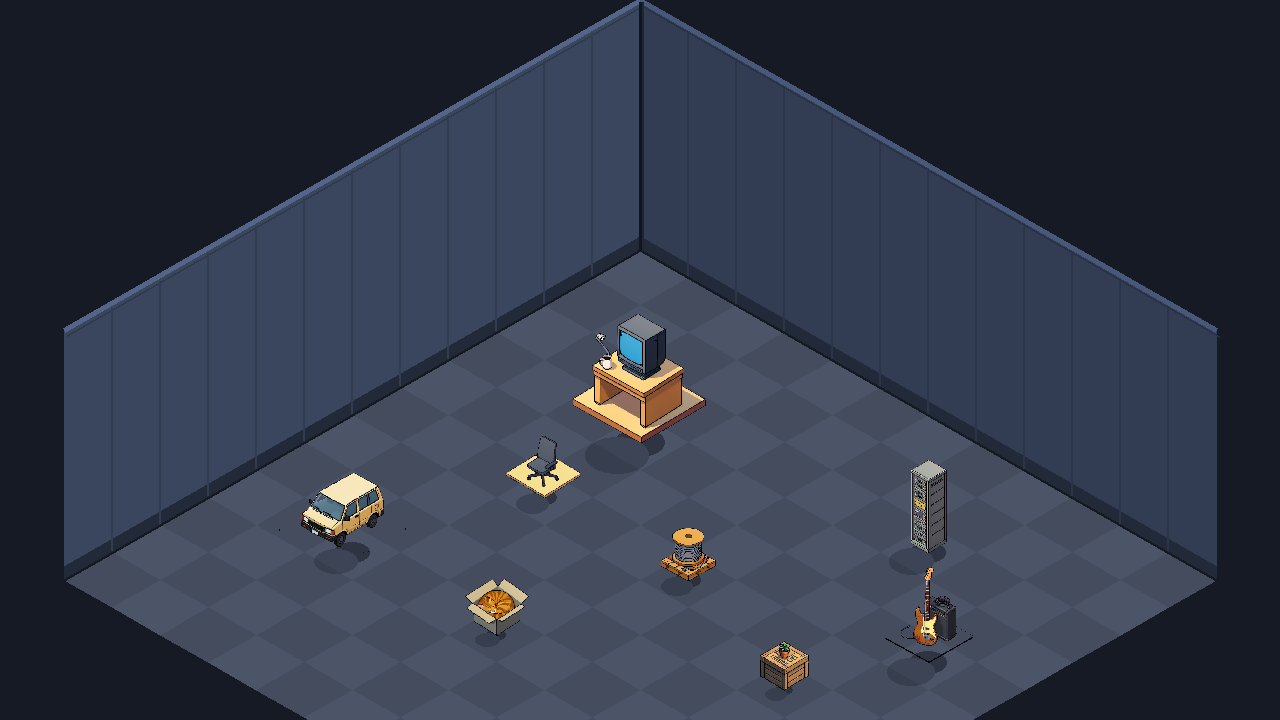
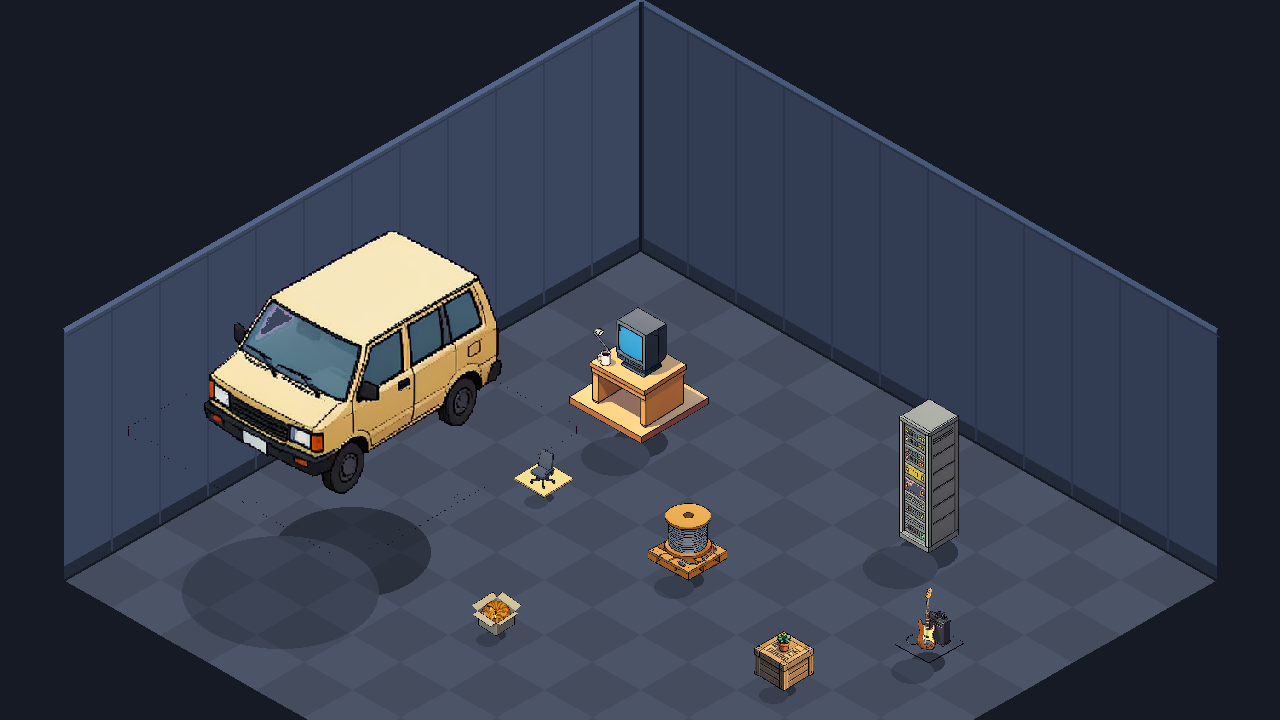
fix(rooms): scale props from measured object size, not canvas size
The operator's report was "the scale of items is not matching the scale of the room", and the
cause was mine: target_tiles scaled the prop's CANVAS (a 640x640 PNG that is mostly padding) to
tiles*tile_w, so the object inside always rendered smaller than its slot. Every prop was
under-sized, by an amount that varied with how much padding each generation happened to have.

Scale is now anchored on something this project DECLARES rather than something assumed:
ROOM['wall']['rise_px'] = 250 px for a room wall, and a room wall is ~2.5 m, so 100 px/m and a
96 px tile ~= 1 m. It cross-checks against art drawn to fit this room - sofa_idle measures 162 px
~ 1.6 m (right for a two-seater), the coffee vignette 201 px ~ 2 m for table + machine + plant.

A first attempt fitted px/m per object from assumed real widths and produced 90/167/247/376 px per
metre across five sprites. That spread was the assumptions, not the art - kept in the script's
docstring as a warning, because fitting a scale from a table of guesses looks like measurement.

object px in a 640 canvas -> tiles (was -> now):
  desk 443 -> 2.11 (2.0)   rack 173 -> 2.31 (1.4)   chair 502 -> 0.80 (1.0)   spool 367 -> 1.45 (1.0)
  crate 328 -> 1.22 (1.0)  bass 490 -> 0.95 (1.2)   cat 474 -> 0.70 (0.9)     jdm_van 528 -> 5.68 (1.6)

Review of the recomposited room now reads desk ~1.4 m, rack ~2 m tall, spool ~0.8 m, guitar ~0.9 m
[…]

diff --git a/frontend/index.html b/frontend/index.html
@@ -3724,8 +3724,19 @@ function toggleBrokerPanel() {
             // nothing renders twice (AC5); the upstream code itself is kept
             // intact for the fallback path. error_bug / star_working /
             // sync_anim are STATE fixtures, not furniture - never in this list.
-            const UPSTREAM_FURNITURE_KEYS = ['plants', 'cats', 'coffee_machine',
-                'coffee_machine_shadow', 'serverroom', 'desk_v2', 'flowers',
+            // Static asset version, substituted server-side at serve time. Exposed so dynamically
+            // built URLs (the room pack's prop art) can be cache-busted the same way the loader's
+            // own <script> URLs are - see placeProps().
+            window.STATIC_VERSION = '{{VERSION_TIMESTAMP}}';
+
+            // coffee_machine / coffee_machine_shadow deliberately NOT suppressed: that sheet is OUR
+            // generated art (96-frame brewing loop) and it draws the machine ON ITS TABLE - object and
+            // support in one coherent sprite, which is exactly what a room needs ("a coffee machine
+            // must stand on something"). Review of the assembled room asked for precisely that. Only
+            // the LimeZu sheets (plants, cats) and the upstream furniture the pack replaces stay
+            // suppressed.
+            const UPSTREAM_FURNITURE_KEYS = ['plants', 'cats',
+                'serverroom', 'desk_v2', 'flowers',
                 'sofa_idle', 'sofa_shadow', 'star_idle'];
 
             const state = {
@@ -3805,11 +3816,15 @@ function toggleBrokerPanel() {
                 if (!anchors || !anchors.length) { fallback('room has no usable anchors'); return; }
                 const scene = state.scene;
                 const pending = [];
+                // Cache-bust the prop art. Measured: without this, prop URLs are stable and /static is
+                // served `Cache-Control: immutable`, so a browser keeps the FIRST prop image it ever
+                // fetched - regenerated art would never reach a client. (Caught while testing: after
+                // halving the served prop files the browser still reported the old 640x640 textures.)
+                const v = (window.STATIC_VERSION || (entry && entry.version) || '1');
                 anchors.forEach(a => {
                     const key = 'room:' + roomKey + ':' + a.id;
-                    const url = '/static/' + entry.props + String(a.file).split('/').pop();
+                    const url = '/static/' + entry.props + String(a.file).split('/').pop() + '?v=' + v;
                     pending.push({ a: a, key: key, url: url });
-                    if (!scene.textures.exists(key)) scene.load.image(key, url);
                 });
                 const finish = () => {
                     const floor = room.floor;
@@ -3844,15 +3859,36 @@ function toggleBrokerPanel() {
                     state.roomSource = entry.room;
                     suppressGate();
                 };
-                if (scene.load.isLoading()) {
-                    scene.load.once('complete', () => {
-                        scene.load.once('complete', finish);
-                        scene.load.start();
-                    });
-                } else {
-                    scene.load.once('complete', finish);
-                    scene.load.start();
-                }
+                // Load prop art with plain DOM images + TextureManager.addImage, and DO NOT touch
+                // scene.load. Measured, not theorised: with the pack active the canvas rendered 87%
+                // pure black (0,0,0) and none of the shell's floor colours appeared anywhere, while
+                // renaming index.json away brought the whole room back - so the ACTIVE path was
+                // blanking the background, and the only thing it did that the fallback does not was
+                // start the LoaderPlugin a second time from loadRoom() after the scene was already
+                // created (scene.load.image() + scene.load.start()). Keeping the loader out of it
+                // removes that interaction completely, and a DOM Image needs no loader queue at all.
+                const queue = pending.slice();
+                const step = () => {
+                    const p = queue.shift();
+                    if (!p) { finish(); return; }
+                    if (scene.textures.exists(p.key)) { step(); return; }
+                    const img = new Image();
+                    img.onload = () => {
+                        try {
+                            scene.textures.addImage(p.key, img);
+                        } catch (e) {
+                            console.warn('RoomPack: addImage failed for', p.key, e);
+                        }
+                        step();
+                    };
+                    img.onerror = () => {
+                        // one bad prop must never abort the room (AC7)
+                        console.warn('RoomPack: prop image failed', p.url);
+                        step();
+                    };
+                    img.src = p.url;
+                };
+                step();
             }
 
             function loadRoom(entry, roomKey) {

diff --git a/scripts/scale_props.py b/scripts/scale_props.py
@@ -1,0 +1,127 @@
+#!/usr/bin/env python3
+"""Size room props from the room's real-world scale, measured rather than guessed.
+
+THE BUG THIS FIXES: `target_tiles` scaled the prop's CANVAS (a 640x640 PNG that is mostly
+padding) to `tiles * tile_w`, so the OBJECT inside always came out smaller than its slot. Review
+of the assembled room called it directly - "the scale of items is not matching the scale of the
+room". A prop's real size has to come from its measured object width, not its canvas width.
+
+THE SCALE: 100 px per metre, derived from a quantity this project DECLARES rather than one I
+assumed - ROOM['wall']['rise_px'] = 250 px for a room wall, and a room wall is ~2.5 m. It
+cross-checks against art that was drawn to fit this room: sofa_idle measures 162 px wide ~ 1.6 m
+(right for a two-seater), the coffee vignette 201 px ~ 2 m for table + machine + plant.
+
+FIRST ATTEMPT, KEPT AS A WARNING: deriving px/m per-object from assumed real widths gave
+90/167/247/376 px per metre across five sprites - the spread was the assumptions, not the art.
+Do not fit scale from a table of guesses; anchor it on one declared reference and check the rest.
+
+Real widths below are ordinary object dimensions, stated so they can be argued with.
+
+Usage: python scripts/scale_props.py [--apply]
+"""
+import json
+import sys
+from pathlib import Path
+
+import numpy as np
+from PIL import Image
+
+REPO = Path(__file__).resolve().parent.parent
+ROOMS = REPO / "assets" / "generated" / "rooms"
+TILE_W = 96                     # declared in room_geometry.ROOM['floor']['tile_w']
+PX_PER_M = 100                  # 250 px wall / 2.5 m - see the module docstring
+WALL_RISE_PX, WALL_REAL_M = 250, 2.5
+
+# id -> (real width in metres, why)
+REAL_M = {
+    "desk":     (1.40, "a desk; the sprite includes a monitor and a lamp"),
+    "rack":     (0.60, "a 19-inch server rack is 600 mm wide"),
+    "chair":    (0.60, "an office chair at its footprint"),
+    "spool":    (0.80, "a cable spool including its pallet"),
+    "crate":    (0.60, "a shipping crate"),
+    "bass":     (0.70, "amp plus the leaning bass guitar"),
+    "cat":      (0.50, "a cat curled in a box"),
+    "jdm_van":  (4.50, "a Mazda MPV is ~4.5 m long - see the note it prints"),
+}
+
+
+def object_bbox(path):
+    """Measured width/height of what is actually drawn in the sprite (alpha > 128)."""
+    a = np.asarray(Image.open(path).convert("RGBA"))
+    ys, xs = np.nonzero(a[:, :, 3] > 128)
+    return int(xs.max() - xs.min() + 1), int(ys.max() - ys.min() + 1)
+
+
+def main():
+    apply = "--apply" in sys.argv
+    agent = "andrzej"
+    room_path = ROOMS / agent / "room.json"
+    room = json.loads(room_path.read_text())
+    print(f"  scale: {PX_PER_M:.0f} px/m  (wall {WALL_RISE_PX}px = {WALL_REAL_M}m)   tile {TILE_W}px"
+          f" = {TILE_W / PX_PER_M:.2f} m   room {12} x {12} tiles = {12 * TILE_W / PX_PER_M:.1f} m")
+    print()
+    print(f"  {'prop':9s} {'object px':>10s} {'real m':>7s} {'want px':>8s} {'tiles was':>10s} {'tiles now':>10s}")
+    print(f"  {'-' * 9} {'-' * 10} {'-' * 7} {'-' * 8} {'-' * 10} {'-' * 10}")
+    # the SOURCE pack (written by gen_room_set) calls it 'tiles'; the SERVED/normalised pack
+    # (written by publish_room) calls it 'target_tiles'. Both must move together or the app and the
+    # preview disagree - which is its own class of bug.
+    served_path = REPO / "frontend" / "rooms" / agent / "room.json"
+    served = json.loads(served_path.read_text()) if served_path.exists() else None
+    served_by_id = {}
+    if served:
+        served_by_id = {p["id"]: p for p in served.get("prop_anchors", [])}
+
+    changed = 0
+    for p in room["prop_anchors"]:
+        pid = p["id"]
+        if pid not in REAL_M:
+            continue
+        real_m, why = REAL_M[pid]
+        src = ROOMS / agent / p["file"]
+        ow, oh = object_bbox(src)
+        want_px = real_m * PX_PER_M                  # how wide the OBJECT should be on screen
+        canvas_needed = want_px * (640.0 / ow)       # canvas width so the object lands at want_px
+        tiles = canvas_needed / TILE_W
+        was = p.get("tiles", p.get("target_tiles"))
+        p["tiles"] = round(tiles, 3)
+        p["real_m"] = real_m
+        p["scale_note"] = (f"object measures {ow}px in a 640px canvas; {real_m} m at {PX_PER_M} px/m "
+                           f"= {want_px:.0f}px -> canvas {canvas_needed:.0f}px = {tiles:.2f} tiles ({why})")
+        if served and pid in served_by_id:
+            s = served_by_id[pid]
+            s["target_tiles"] = p["tiles"]
+            s["real_m"] = real_m
+            s["scale_note"] = p["scale_note"]
+        if was != p["tiles"]:
+            changed += 1
+        print(f"  {pid:9s} {ow:10d} {real_m:7.2f} {want_px:8.0f} {str(was):>10s} {p['tiles']:10}")
+    if apply:
+        room_path.write_text(json.dumps(room, indent=2) + "\n")
+        if served:
+            served_path.write_text(json.dumps(served, indent=2) + "\n")
+        # the PROFILE must move too: gen_room_set writes room.json from profile 'tiles', so leaving
+        # the profile alone means the next regeneration silently reverts every size computed here.
+        prof = REPO / "profiles" / "rooms" / f"{agent}_room.json"
+        if prof.exists():
+            pr = json.loads(prof.read_text())
+            n = 0
+            for prop in pr.get("props", []):
+                if prop["id"] in REAL_M:
+                    prop["tiles"] = REAL_M[prop["id"]][0] * PX_PER_M * (640.0 / 640.0) / TILE_W
+                    # scaled by the same measured object width as above, not by the canvas
+                    src = ROOMS / agent / "props" / f"{prop['id']}.png"
+                    if src.exists():
+                        ow, _ = object_bbox(src)
+                        prop["tiles"] = round(REAL_M[prop["id"]][0] * PX_PER_M * (640.0 / ow) / TILE_W, 3)
+                    prop["real_m"] = REAL_M[prop["id"]][0]
+                    n += 1
+            prof.write_text(json.dumps(pr, indent=2) + "\n")
+            print(f"  profile synced: {prof.relative_to(REPO)} ({n} props)")
+        print(f"\n  room.json updated ({changed} props resized); served copy synced: {bool(served)}")
+    else:
+        print("\n  (dry run - pass --apply)")
+    print("SCALE_PROPS_DONE")
+
+
+if __name__ == "__main__":
+    main()
